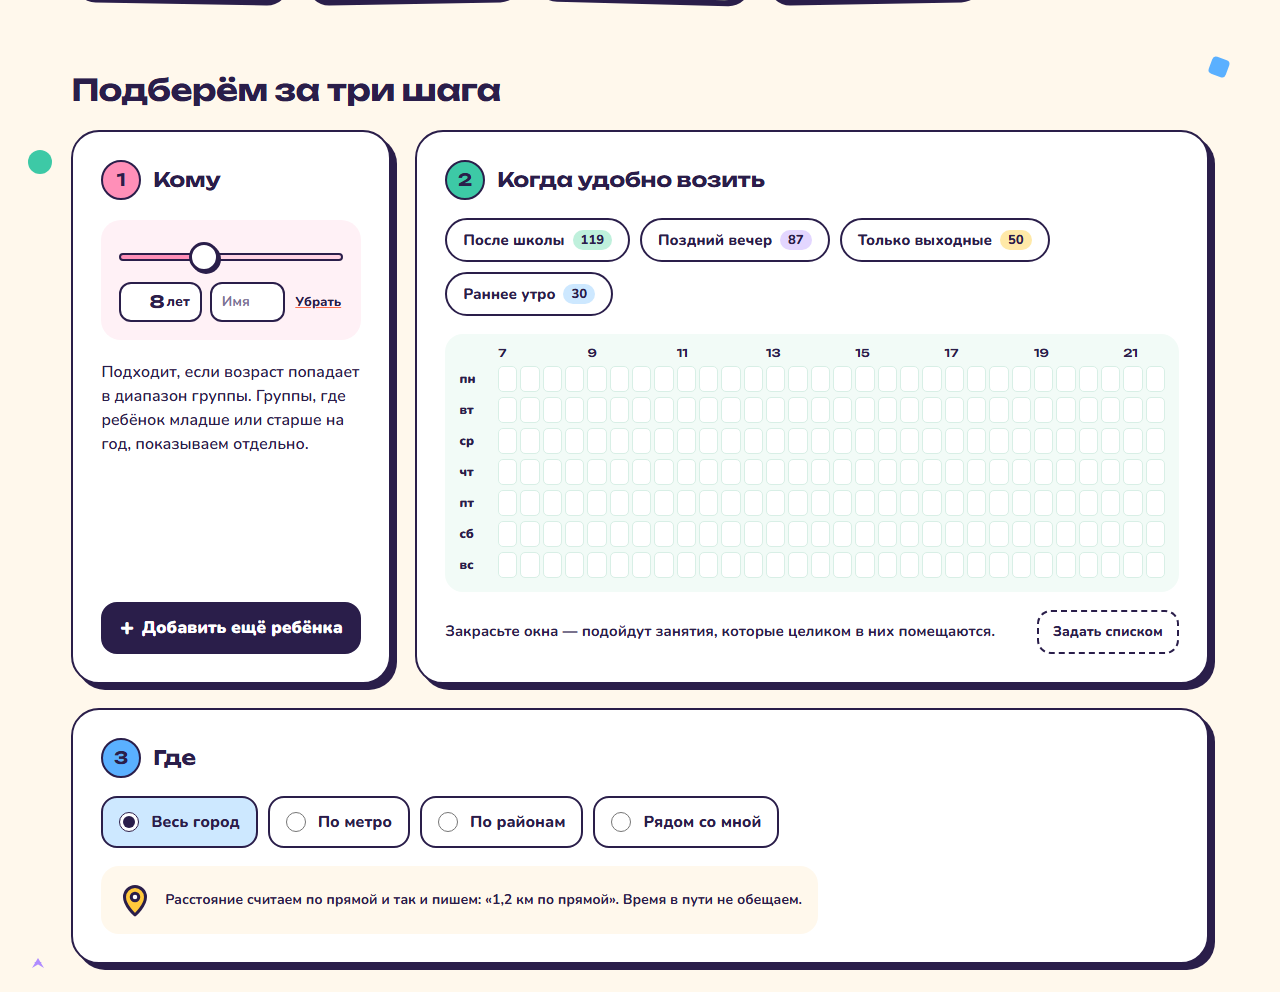
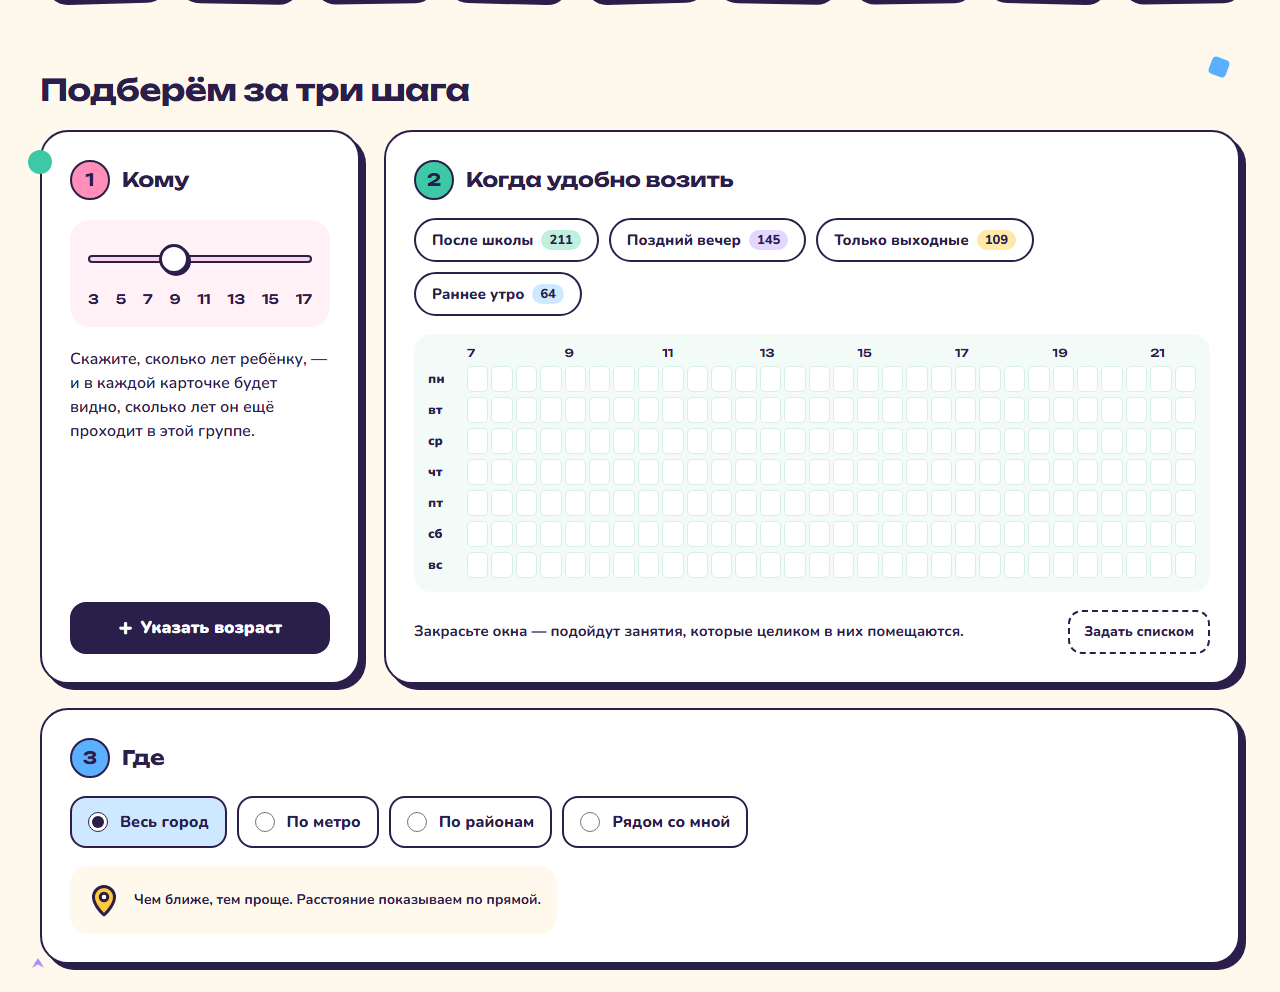
Девять плиток до 1263 px, три шага в ряд от 1312, подсказка шага 3

diff --git a/design/compare.html b/design/compare.html
@@ -99,11 +99,12 @@
 </div>
 <ul class="diff">
   <li>«Робототехника» и «Единоборства» в эталоне обрезаны краем плитки; здесь помещаются целиком — на 2 px мельче и с плотным трекингом.</li>
-  <li>Точка бирюзового конфетти внизу слева — от следующей секции, «Подбор», ещё в старом виде.</li>
+  <li>Точка бирюзового конфетти внизу слева — от следующей секции, «Подбор».</li>
 </ul>
 
-<h2>3а. Витрина на ноутбуках: 1366 и 1280 px — нужно ваше решение</h2>
-<p>Проверил скриптом ваш вариант: поля страницы 56 вместо 80. <b>Не хватает</b>: на 1366 — 1,6 px на плитку, на 1280 — 11 px.
+<h2>3а. Витрина на ноутбуках: 1366 и 1280 px</h2>
+<p><b>Решено: вариант Б.</b> Уже 1430 px поля страницы 40, зазор между плитками 12, поля плитки 10 — девять колонок до 1263 px, ниже пять. Мягкие переносы оставлены страховкой. Замеры, по которым решали:</p>
+<p>Поля 56 вместо 80 не хватило: на 1366 — 1,6 px на плитку, на 1280 — 11 px.
 «Робототехника» при 13 px с трекингом −0,4 занимает 95,7 px. Место под имя считается так: (ширина окна − 2 поля − 8 зазоров) / 9 − 2 поля плитки − 5 px обводки.
 Для точки отсчёта: в геометрии эталона на 1440 запас всего 1,3 px.</p>
 <div class="tablewrap">
@@ -119,20 +120,13 @@
   </tbody>
 </table>
 </div>
-<p>Одними полями страницы 1280 не закрыть: даже при полях 32 не хватает 4,7 px. Дальше приходится ужимать саму плитку.
-Поля страницы меняются для всей страницы, а не только для витрины: шапка, герой и шаги встают по той же линии — это видно на кадрах.
-Я бы взял <b>Б</b> ниже 1430 px, а пять колонок оставил ниже 1263. <b>В</b> дотягивает до 1200 только за счёт ещё одного пикселя кегля, и запас там 0,9 px: крупный системный шрифт его съест.</p>
 <div class="pair">
-  <figure><figcaption>1366 px, сейчас: 5 + 4</figcaption><img src="compare/site-1366-now.png" alt="Витрина на 1366 px сейчас, две строки"></figure>
-  <figure><figcaption>1366 px, вариант А: поля 40, 9 колонок</figcaption><img src="compare/site-1366-edge40.png" alt="Витрина на 1366 px с полями 40, одна строка"></figure>
-</div>
-<div class="pair" style="margin-top:12px">
-  <figure><figcaption>1280 px, сейчас: 5 + 4</figcaption><img src="compare/site-1280-now.png" alt="Витрина на 1280 px сейчас, две строки"></figure>
-  <figure><figcaption>1280 px, вариант Б: поля 40, зазор 12, поля плитки 10</figcaption><img src="compare/site-1280-edge40-tight.png" alt="Витрина на 1280 px в варианте Б, одна строка"></figure>
+  <figure><figcaption>1366 px</figcaption><img src="compare/site-1366.png" alt="Верх страницы и витрина на 1366 px, девять плиток в ряд"></figure>
+  <figure><figcaption>1280 px</figcaption><img src="compare/site-1280.png" alt="Верх страницы и витрина на 1280 px, девять плиток в ряд"></figure>
 </div>
 <ul class="diff">
-  <li>Варианты сняты с тем же сайтом, правила навязаны стилем поверх: в <code>site.css</code> их пока нет. На обоих кадрах вариантов все девять имён в одну строку, страница не шире экрана — проверено скриптом, не на глаз.</li>
-  <li>На 1280 заголовок героя в четыре строки и сейчас: это не от вариантов.</li>
+  <li>Поля 40 — для всей страницы, не только для витрины: шапка, герой и шаги стоят по одной линии.</li>
+  <li>Проверено скриптом на 1440, 1430, 1429, 1366, 1312, 1311, 1280, 1263, 1262, 1200, 1024, 1023, 768, 390 и 360 px: перелива нет, все имена в одну строку, девять в ряд — от 1263.</li>
 </ul>
 
 <h2>4. Подбор за три шага</h2>
@@ -141,7 +135,10 @@
   <figure><figcaption>Сайт, фильтры не заданы</figcaption><img src="compare/site-steps.png" alt="Три шага на сайте"></figure>
 </div>
 <div class="pair" style="margin-top:12px">
+  <figure><figcaption>Сайт, 1366 px: три в ряд</figcaption><img src="compare/site-steps-1366.png" alt="Три шага на 1366 px"></figure>
   <figure><figcaption>Сайт, 1280 px: шаг 3 под первыми двумя</figcaption><img src="compare/site-steps-1280.png" alt="Три шага на 1280 px"></figure>
+</div>
+<div class="pair" style="margin-top:12px">
   <figure><figcaption>Сайт, заполнено как в эталоне: ребёнок 8 лет, «После школы»</figcaption><img src="compare/site-steps-filled.png" alt="Три шага с ребёнком и пресетом"></figure>
 </div>
 <ul class="diff">
@@ -178,7 +175,7 @@
     <tr><td>Направления</td><td>Число в белой пилюле, Unbounded 600</td><td><span class="tag tag--ok">перенесено</span></td><td>Число живое — сколько групп даст выбор. У выбранной плитки пилюля тёмная, у пустой плитка гаснет.</td></tr>
     <tr><td>Направления</td><td>Плитки — ссылки <code>&lt;a href="#"&gt;</code></td><td><span class="tag tag--alt">перенесено иначе</span></td><td>Кнопки с <code>aria-pressed</code>: плитка включает фильтр на этой же странице, а не ведёт на другую. Скринридер слышит «нажата / не нажата».</td></tr>
     <tr><td>Подбор</td><td>«Подберём за три шага», Unbounded 30 px</td><td><span class="tag tag--ok">перенесено</span></td><td>На телефоне скрыт: там подбор живёт в шторке, и заголовок стоял бы над пустым местом.</td></tr>
-    <tr><td>Подбор</td><td>Три карточки 340 / гибкая / 300, зазор 24</td><td><span class="tag tag--alt">перенесено иначе</span></td><td>Так — от 1360 px. Уже средняя колонка сжимает сетку недели до ячеек меньше 11 px, поэтому шаги 1 и 2 рядом, шаг 3 во всю ширину под ними. Ниже 1024 — шторка, шаги стопкой.</td></tr>
+    <tr><td>Подбор</td><td>Три карточки 340 / гибкая / 300, зазор 24</td><td><span class="tag tag--alt">перенесено иначе</span></td><td>Так — от 1312 px: до этой ширины ячейка сетки недели не меньше 11 px (в эталоне 12,6). Уже шаги 1 и 2 рядом, шаг 3 во всю ширину под ними. Ниже 1024 — шторка, шаги стопкой.</td></tr>
     <tr><td>Подбор</td><td>Карточка шага: белая, обводка 2,5, радиус 28, тень 6 px, поля 28</td><td><span class="tag tag--ok">перенесено</span></td><td>В шторке тень 4 px и поля 20.</td></tr>
     <tr><td>Подбор</td><td>Номера в кругах 40 px: розовый, бирюзовый, голубой</td><td><span class="tag tag--ok">перенесено</span></td><td>Цифры скрыты от скринридера: порядок и так понятен по заголовкам.</td></tr>
     <tr><td>Подбор</td><td>Заголовки «Кому», «Когда удобно возить», «Где», 20 px</td><td><span class="tag tag--ok">перенесено</span></td><td></td></tr>
@@ -190,7 +187,7 @@
     <tr><td>Шаг 2</td><td>Подписи часов через два и дней недели</td><td><span class="tag tag--ok">перенесено</span></td><td></td></tr>
     <tr><td>Шаг 2</td><td>Подпись «Закрасьте окна…» и пунктирная «Задать списком»</td><td><span class="tag tag--ok">перенесено</span></td><td>Раскрывает список «дни + с какого часа до какого» — он же текстовая замена сетки.</td></tr>
     <tr><td>Шаг 3</td><td>Четыре режима пилюлями 52 px, выбранный — голубой</td><td><span class="tag tag--ok">перенесено</span></td><td>Внутри настоящие радиокнопки. Списки метро, районов и «рядом со мной» раскрываются в той же карточке: в эталоне их нет.</td></tr>
-    <tr><td>Шаг 3</td><td>Подсказка с жёлтой меткой внизу карточки</td><td><span class="tag tag--alt">перенесено иначе</span></td><td>Вместо «Чем ближе к дому, тем меньше опозданий» — «Расстояние считаем по прямой и так и пишем». Сайт не знает, где дом и сколько ехать; про расстояние по прямой говорит честно.</td></tr>
+    <tr><td>Шаг 3</td><td>Подсказка с жёлтой меткой внизу карточки</td><td><span class="tag tag--alt">перенесено иначе</span></td><td>Вместо «Чем ближе к дому, тем меньше опозданий» — «Чем ближе, тем проще. Расстояние показываем по прямой.» Сайт не знает, где дом и сколько ехать, поэтому не обещает время в пути.</td></tr>
     <tr><td>Холст</td><td>Конфетти у шагов: бирюзовый круг, голубой квадратик, сиреневая звёздочка</td><td><span class="tag tag--ok">перенесено</span></td><td>От 1200 px, как и остальное конфетти.</td></tr>
     <tr><td>Подбор</td><td>Подбор — форма прямо на странице</td><td><span class="tag tag--alt">перенесено иначе</span></td><td>На телефоне и планшете весь подбор — шторка: открывается кнопкой героя или полосой «Фильтры», сверху пилюли направлений, внизу липкая «Показать N групп».</td></tr>
   </tbody>
@@ -201,7 +198,7 @@
 <ul>
   <li><b>Контраст новых пар:</b> профиль — чернила на <code>#E3D6FF</code>, 11,1:1. Буква на <code>#B08CFF</code> — 5,8:1. Плашка демо — 12,6:1. Счётчик колокольчика на <code>#FF5A3C</code> — 4,9:1. «Кружок» — 4,17:1, это крупный текст, порог 3:1.</li>
   <li><b>Фокус с клавиатуры</b> проверен настоящими нажатиями Tab: ссылка «к результатам» → знак → три пункта меню → Кабинет → Войти → две кнопки героя → плитки. На каждом кольцо 3 px с отступом 4 px.</li>
-  <li><b>Переливы по ширине</b>: 0 на 1440, 1430, 1429, 1366, 1280, 1024, 768, 390 и 360 px. Имена в плитках везде в одну строку.</li>
+  <li><b>Переливы по ширине</b>: 0 на 1440, 1430, 1429, 1366, 1312, 1311, 1280, 1263, 1262, 1200, 1024, 1023, 768, 390 и 360 px. Имена в плитках везде в одну строку.</li>
   <li><b>Сценарии интерфейса</b> (<code>npm run test:ui</code>): 14 из 14. Правок в прежних сценариях две, обе разрешены: прокрутка перед открытием шторки и снятая метка todo у демо-сохранения.</li>
 </ul>
 
@@ -233,6 +230,13 @@
   <li><b>Компактная иллюстрация</b> на телефоне: три фигуры справа от заголовка, первый экран не вырос.</li>
   <li><b>Длинные имена целиком</b> на всех ширинах — проверено измерением на 1440, 1430, 1429, 1366, 1280, 1024, 768, 390 и 360 px.</li>
   <li><b>Попутно найдено измерением:</b> на 1366 и 1280 px страница была шире экрана на 19 и 62 px — коралловая волна-конфетти стояла за правым краем. Слой конфетти теперь сам обрезает вылезшее. На 768 px длинные имена ломались в пяти узких колонках — там теперь лента.</li>
+</ul>
+
+<h2>Правки после третьего просмотра</h2>
+<ul>
+  <li><b>Девять плиток до 1263 px</b> — вариант Б, см. раздел 3а.</li>
+  <li><b>Граница трёх шагов в ряд пересчитана</b>: была 1360, стала 1312. Критерий тот же — ячейка сетки не меньше 11 px; замерено скриптом по ширинам 1306–1440. Заодно выяснилось, что прежний комментарий в CSS был неточен: на старой границе ячейка была уже 10,2 px. Теперь граница стоит по замеру.</li>
+  <li><b>Подсказка шага 3</b>: «Чем ближе, тем проще. Расстояние показываем по прямой».</li>
 </ul>
 
 <h2>Что дальше</h2>

diff --git a/css/site.css b/css/site.css
@@ -34,7 +34,8 @@
   --f-body: 'Nunito', system-ui, sans-serif;
   --f-disp: 'Unbounded', 'Nunito', system-ui, sans-serif;
 
-  /* Поля: 80 px на 1440, как в эталоне; на узких экранах — 16 px. */
+  /* Поля: 80 px на 1440, как в эталоне; уже 1430 — не больше 40 (ради
+     девяти плиток в ряд, см. витрину); на узких экранах — 16 px. */
   --edge-x: clamp(16px, 5.56vw, 80px);
 }
 
@@ -289,13 +290,21 @@ body { position: relative; overflow-x: clip; }
    92 px, а «Робототехника» даже при 13 px и трекинге −0,4 занимает 96.
    Поэтому у длинных имён кегль на 2 px меньше и трекинг плотнее, а боковые
    поля плитки 13 px вместо 16 — на глаз разницы нет, а 6 px появляются.
-   Девять колонок — только от 1430 px, где так помещается; уже — пять.
-   Мягкие переносы из js/app.js остаются запасным вариантом. */
+   Уже 1430 девять колонок держатся за счёт полей: поля страницы 40
+   вместо 80, зазор между плитками 12 вместо 16, поля плитки 10 вместо 13.
+   Так ряд цел до 1263 px с запасом 2 px (в эталоне на 1440 — 1,3). Уже —
+   пять колонок. Мягкие переносы из js/app.js — страховка на крупный
+   системный шрифт. */
 .dtiles .tile { padding: 16px 13px; }
 .dtiles .tile__name { hyphens: manual; }
 .dtiles .tile__name--long { font-size: 13px; letter-spacing: -0.4px; }
 @media (max-width: 1429px) {
-  .dtiles { grid-template-columns: repeat(5, minmax(0, 1fr)); }
+  :root { --edge-x: clamp(16px, 5.56vw, 40px); }
+  .dtiles { gap: 12px; }
+  .dtiles .tile { padding: 16px 10px; }
+}
+@media (max-width: 1262px) {
+  .dtiles { grid-template-columns: repeat(5, minmax(0, 1fr)); gap: 16px; }
   .dtiles .tile { padding: 16px; }
   .dtiles .tile__name--long { font-size: 15px; letter-spacing: 0; }
 }
@@ -656,9 +665,10 @@ body { position: relative; overflow-x: clip; }
 
 /* ── ширины между эталоном и шторкой ─────────────────────────────────────── */
 
-/* Уже 1360 средняя колонка сжимает сетку недели до ячеек меньше 11 px.
-   Тогда шаги 1 и 2 рядом, шаг 3 — под ними во всю ширину: порядок цел. */
-@media (max-width: 1359px) {
+/* Три шага в ряд, пока ячейка сетки недели не меньше 11 px (в эталоне на
+   1440 — 12,6). С полями 40 это до 1312 px включительно — замерено. Уже
+   шаги 1 и 2 рядом, шаг 3 — под ними во всю ширину: порядок цел. */
+@media (max-width: 1311px) {
   .steps { grid-template-columns: 320px minmax(0, 1fr); }
   .step--where { grid-column: 1 / -1; }
   .step--where .modes { display: grid; grid-template-columns: repeat(4, minmax(0, max-content)); }

diff --git a/index.html b/index.html
@@ -165,7 +165,7 @@
 
         <p class="step__tip">
           <svg viewBox="0 0 24 24" fill="none" stroke="currentColor" stroke-width="2" stroke-linecap="round" stroke-linejoin="round" aria-hidden="true"><path d="M12 22s7-6.2 7-12a7 7 0 0 0-14 0c0 5.8 7 12 7 12z" fill="#ffc93c"/><circle cx="12" cy="10" r="2.5" fill="#fff"/></svg>
-          <span>Расстояние считаем по прямой и так и пишем: «1,2 км по прямой». Время в пути не обещаем.</span>
+          <span>Чем ближе, тем проще. Расстояние показываем по прямой.</span>
         </p>
       </section>
 
